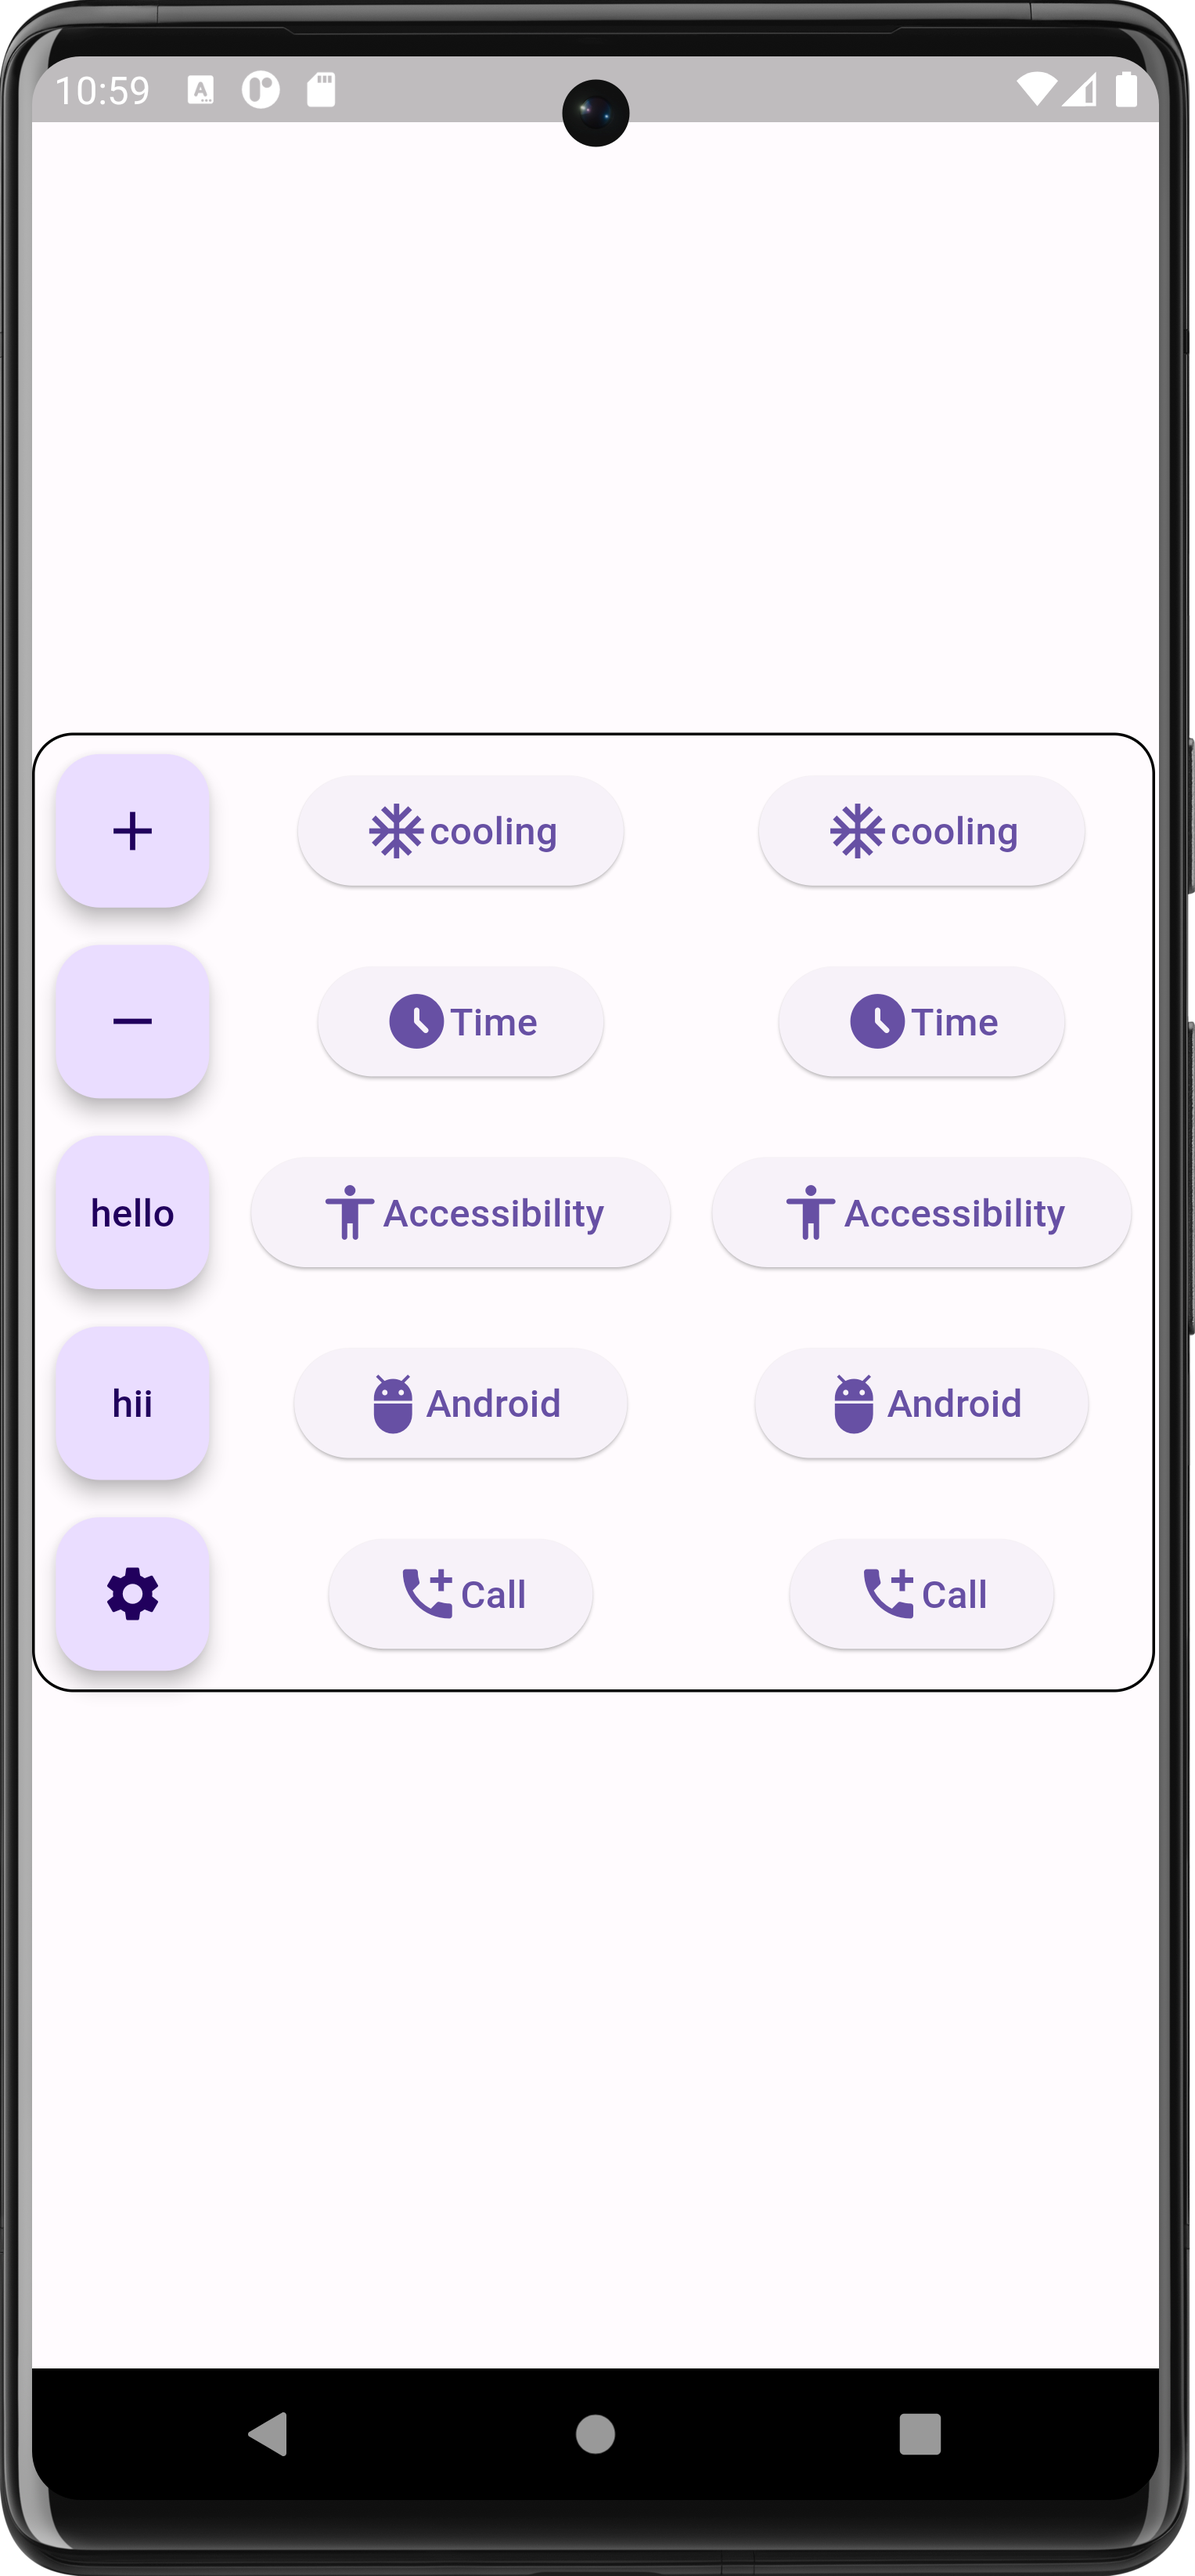
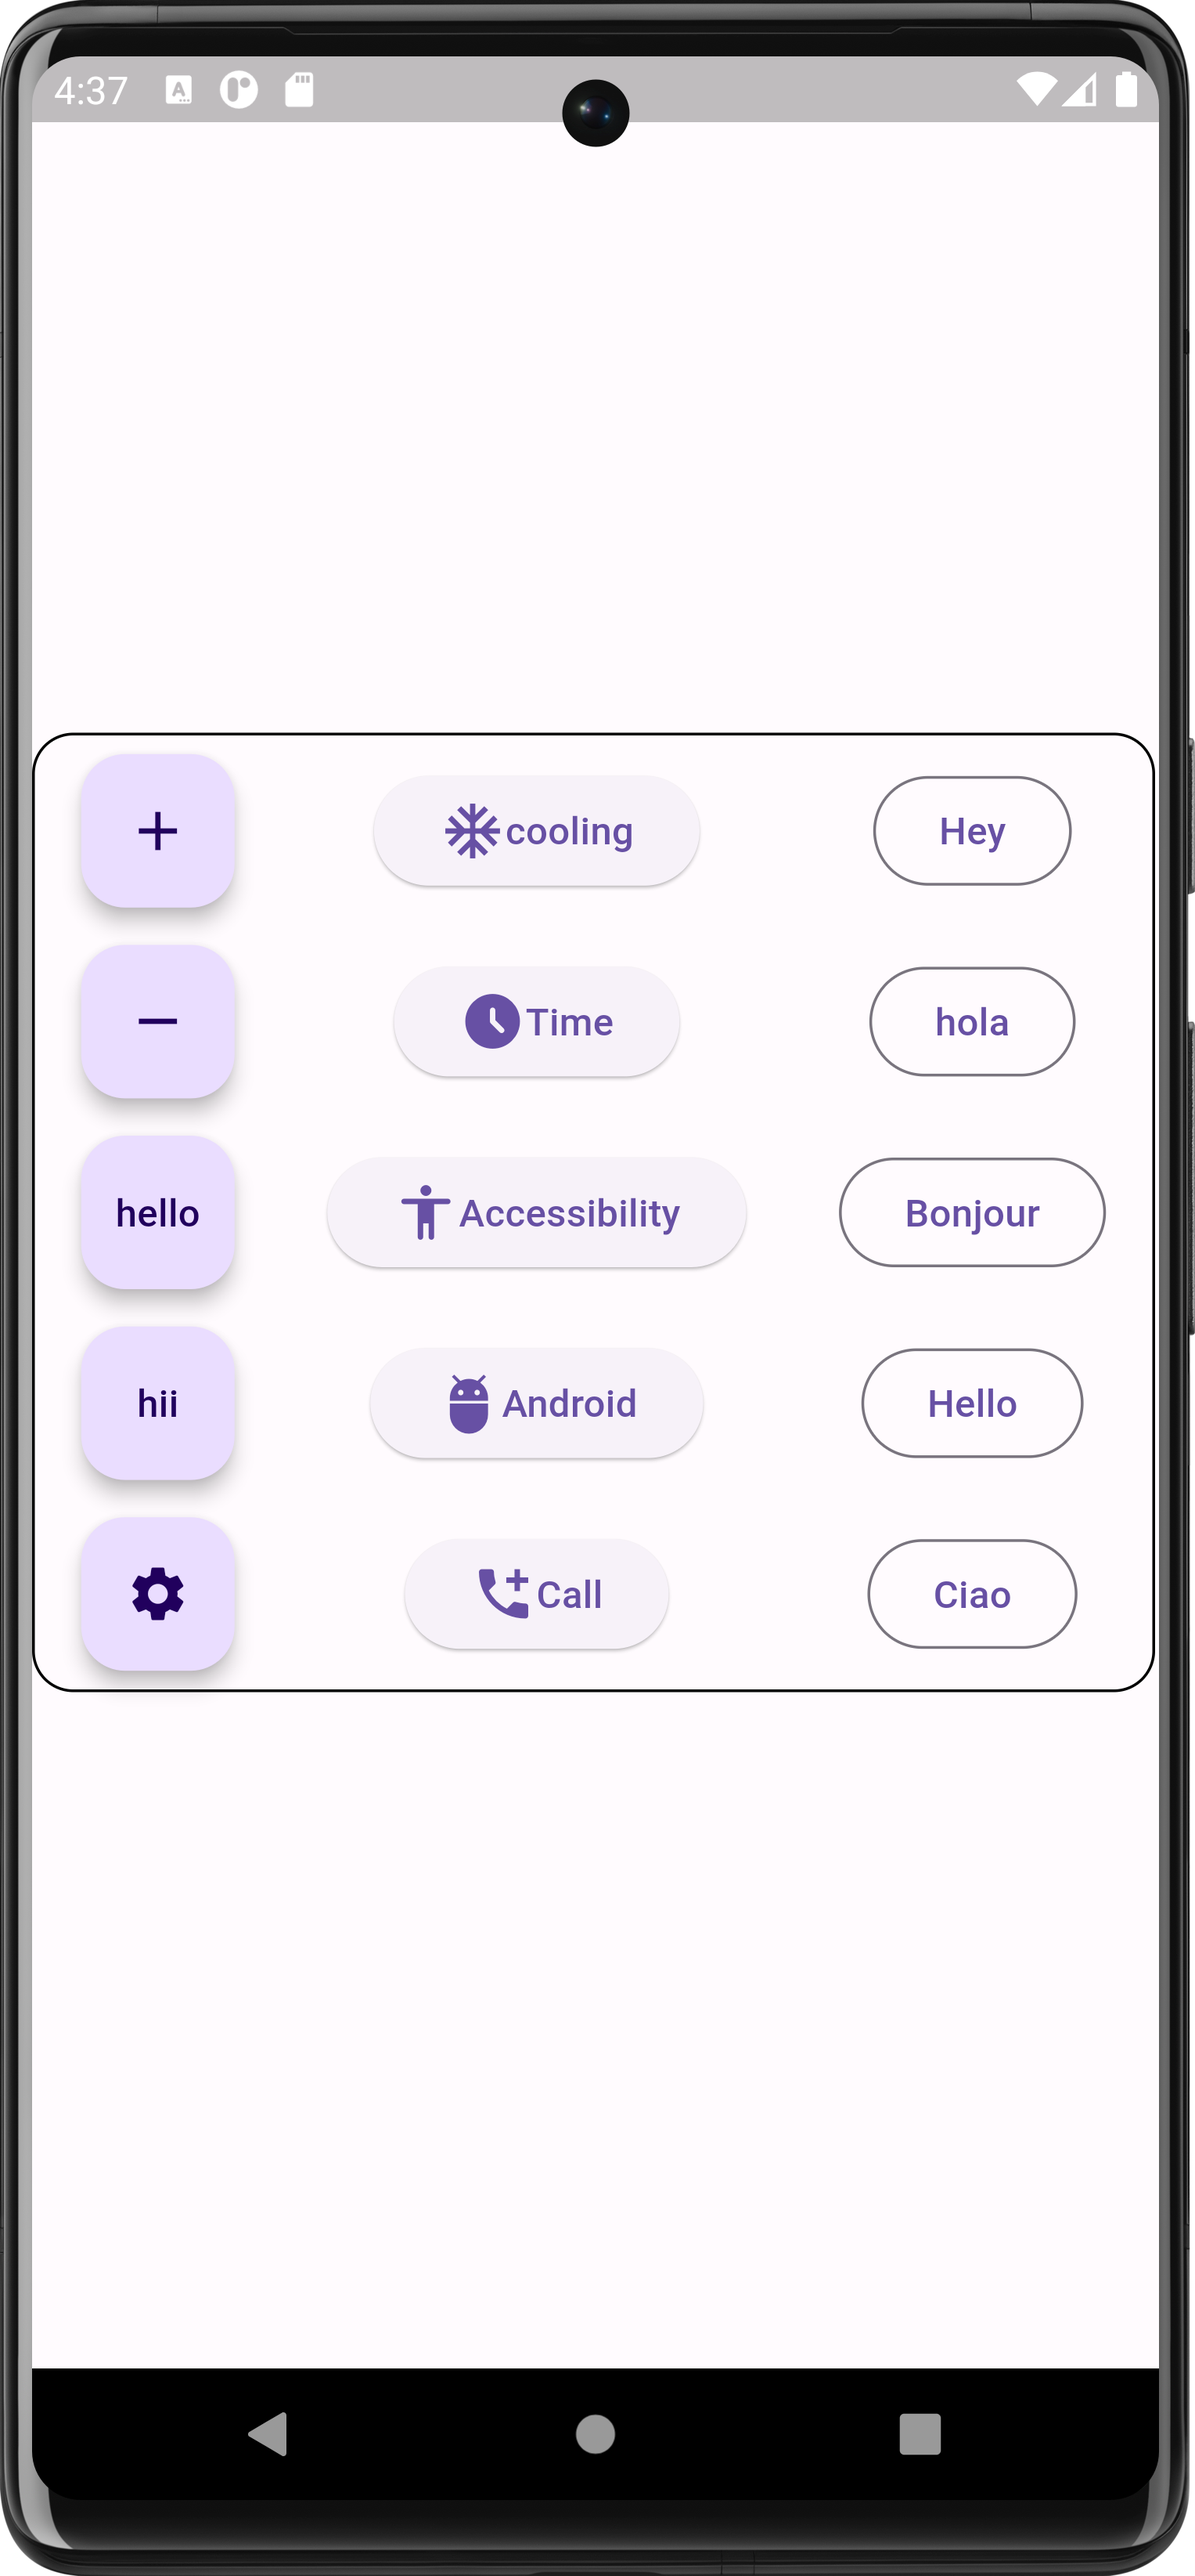
hii

diff --git a/lib/FlutterButtons/Buttons.dart b/lib/FlutterButtons/Buttons.dart
@@ -1,4 +1,4 @@
-import 'package:android_studio_project/main.dart';
+
 import 'package:flutter/cupertino.dart';
 import 'package:flutter/material.dart';
 import 'package:flutter/widgets.dart';
@@ -111,46 +111,21 @@ class _ButtonsState extends State<Buttons> {
                 Column(
                   mainAxisAlignment: MainAxisAlignment.spaceAround,
                   children: [
-                    ElevatedButton(onPressed: (){
+                    OutlinedButton(onPressed: (){
 
-                    }, child: Row(
-                      children: [
-                        Icon(Icons.ac_unit),
-                        Text('cooling'),
-                      ],
-                    )),
-                    ElevatedButton(onPressed: (){
+                    }, child: Text('Hey')),
+                    OutlinedButton(onPressed: (){
 
-                    }, child: Row(
-                      children: [
-                        Icon(Icons.access_time_filled_rounded),
-                        Text('Time'),
-                      ],
-                    )),
-                    ElevatedButton(onPressed: (){
+                    }, child: Text('hola')),
+                    OutlinedButton(onPressed: (){
 
-                    }, child: Row(
-                      children: [
-                        Icon(Icons.accessibility_rounded),
-                        Text('Accessibility'),
-                      ],
-                    )),
-                    ElevatedButton(onPressed: (){
+                    }, child: Text('Bonjour')),
+                    OutlinedButton(onPressed: (){
 
-                    }, child: Row(
-                      children: [
-                        Icon(Icons.adb),
-                        Text('Android'),
-                      ],
-                    )),
-                    ElevatedButton(onPressed: (){
+                    }, child: Text('Hello')),
+                    OutlinedButton(onPressed: (){
 
-                    }, child: Row(
-                      children: [
-                        Icon(Icons.add_call),
-                        Text('Call'),
-                      ],
-                    )),
+                    }, child: Text('Ciao')),
                   ],
                 )
 
